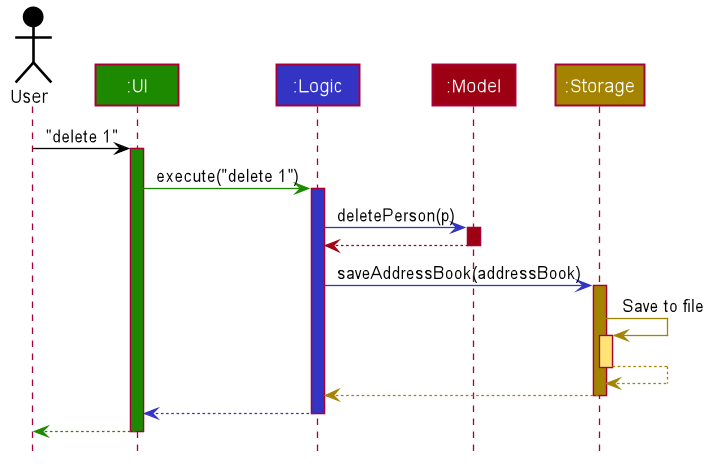
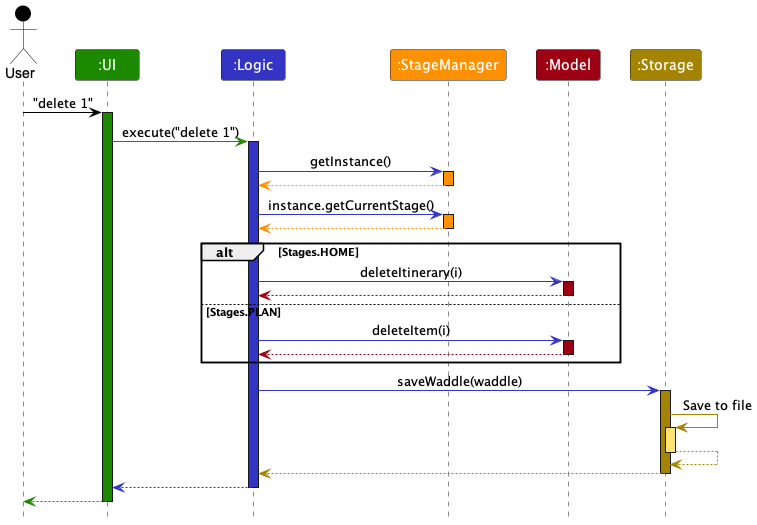
Update DG UI and diagrams

diff --git a/docs/DeveloperGuide.md b/docs/DeveloperGuide.md
@@ -46,6 +46,7 @@ The rest of the App consists of four components.
 
 * [**`UI`**](#ui-component): The UI of the App.
 * [**`Logic`**](#logic-component): The command executor.
+* [**`Stage`**](#stageManager-component): Keeps track of the App's current stage.
 * [**`Model`**](#model-component): Holds the data of the App in memory.
 * [**`Storage`**](#storage-component): Reads data from, and writes data to, the hard disk.
 
@@ -56,7 +57,7 @@ The *Sequence Diagram* below shows how the components interact with each other f
 
 <img src="images/ArchitectureSequenceDiagram.png" width="574" />
 
-Each of the four main components (also shown in the diagram above),
+Each of the five main components (also shown in the diagram above),
 
 * defines its *API* in an `interface` with the same name as the Component.
 * implements its functionality using a concrete `{Component Name}Manager` class (which follows the corresponding API `interface` mentioned in the previous point.
@@ -73,7 +74,7 @@ The **API** of this component is specified in [`Ui.java`](https://github.com/se-
 
 ![Structure of the UI Component](images/UiClassDiagram.png)
 
-The UI consists of a `MainWindow` that is made up of parts e.g.`CommandBox`, `ResultDisplay`, `PersonListPanel`, `StatusBarFooter` etc. All these, including the `MainWindow`, inherit from the abstract `UiPart` class which captures the commonalities between classes that represent parts of the visible GUI.
+The UI consists of a `MainWindow` that is made up of parts e.g.`CommandBox`, `ResultDisplay`, `ItineraryListPanel`, `ItemListPanel`, `StatusBarFooter` etc. All these, including the `MainWindow`, inherit from the abstract `UiPart` class which captures the commonalities between classes that represent parts of the visible GUI.
 
 The `UI` component uses the JavaFx UI framework. The layout of these UI parts are defined in matching `.fxml` files that are in the `src/main/resources/view` folder. For example, the layout of the [`MainWindow`](https://github.com/se-edu/addressbook-level3/tree/master/src/main/java/seedu/address/ui/MainWindow.java) is specified in [`MainWindow.fxml`](https://github.com/se-edu/addressbook-level3/tree/master/src/main/resources/view/MainWindow.fxml)
 
@@ -82,7 +83,7 @@ The `UI` component,
 * executes user commands using the `Logic` component.
 * listens for changes to `Model` data so that the UI can be updated with the modified data.
 * keeps a reference to the `Logic` component, because the `UI` relies on the `Logic` to execute commands.
-* depends on some classes in the `Model` component, as it displays `Person` object residing in the `Model`.
+* depends on some classes in the `Model` component, as it displays `Itinerary` object residing in the `Model`.
 
 ### Logic component
 
